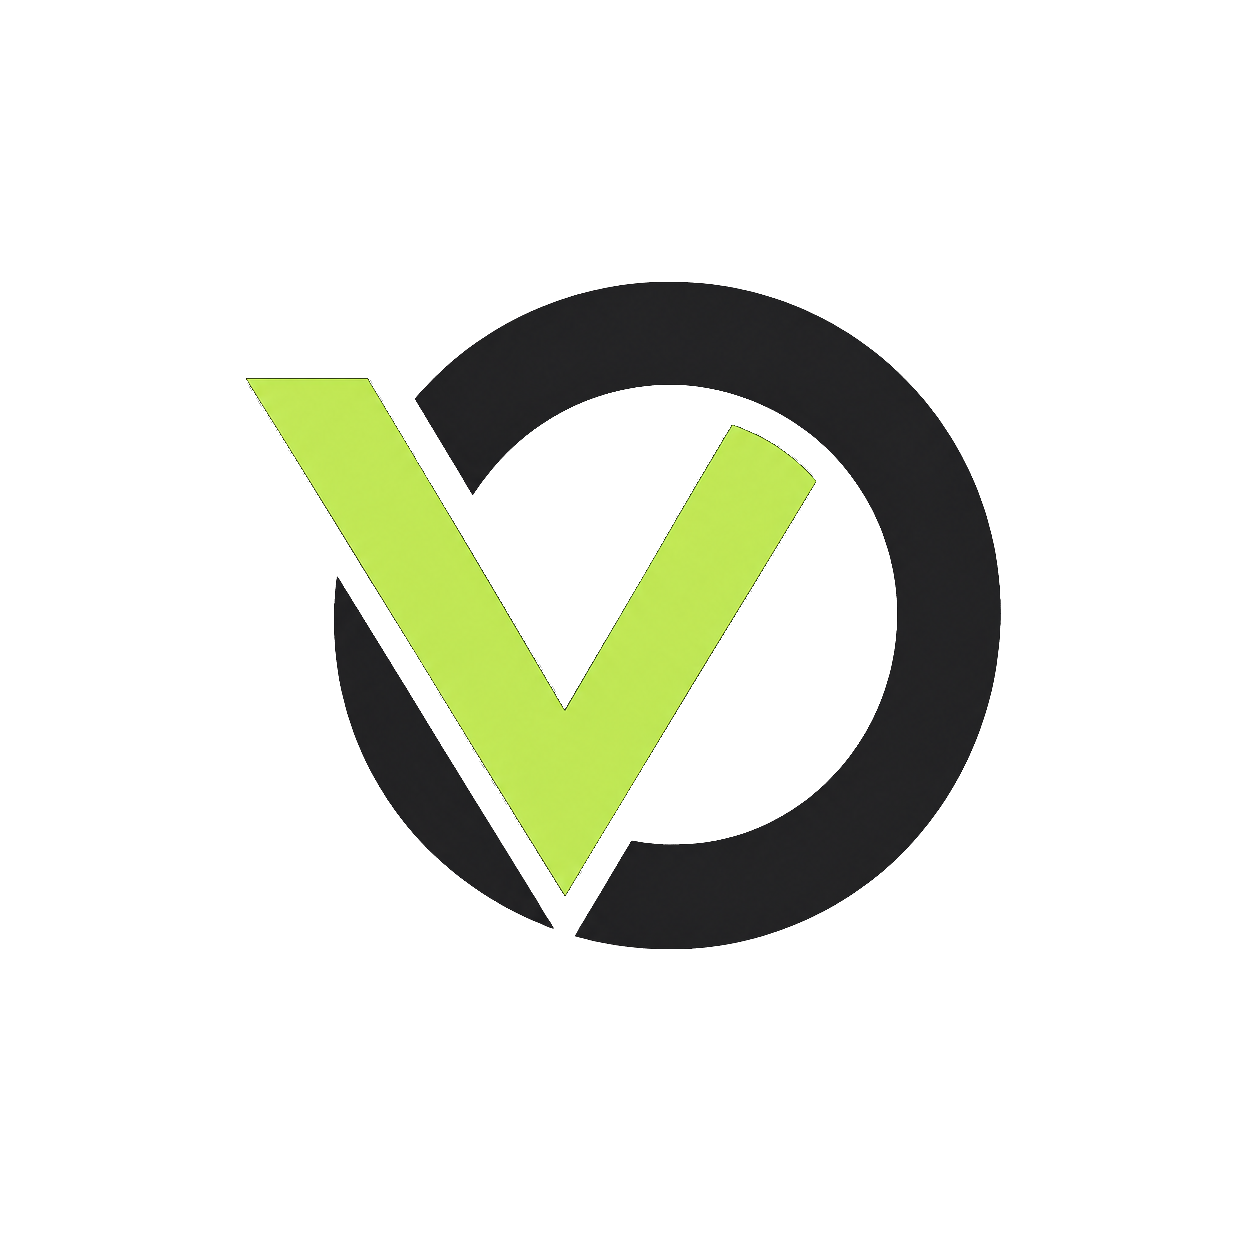
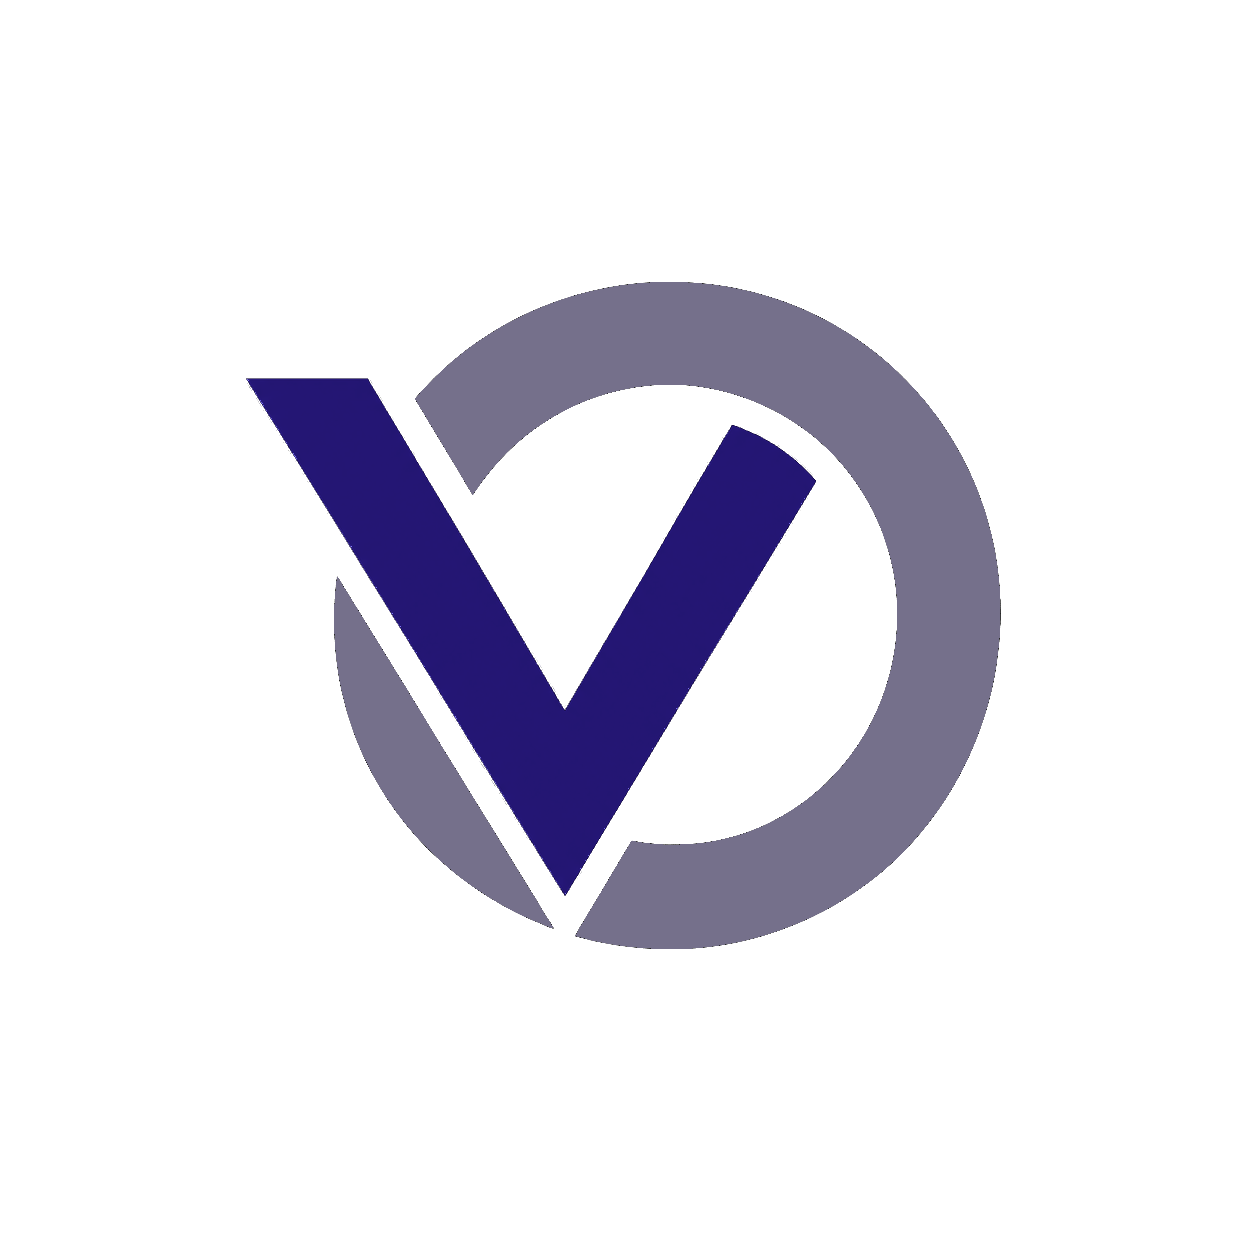
increased text size

Changed region(s): [[0.1866, 0.2177, 0.8086, 0.7775]]

diff --git a/components/Hero.tsx b/components/Hero.tsx
@@ -126,10 +126,10 @@ export default function Hero() {
       <p
         className="font-mono"
         style={{
-          fontSize: "0.9rem",
+          fontSize: "1.35rem",
           color: "var(--text-2)",
-          maxWidth: "560px",
-          lineHeight: 1.85,
+          maxWidth: "760px",
+          lineHeight: 1.75,
           marginBottom: "3rem",
         }}
       >

diff --git a/components/Projects.tsx b/components/Projects.tsx
@@ -140,7 +140,7 @@ export default function Projects() {
 
               <p
                 className="font-mono"
-                style={{ fontSize: "0.85rem", color: "var(--text-2)", lineHeight: 1.8, marginBottom: "1.5rem" }}
+                style={{ fontSize: "1.27rem", color: "var(--text-2)", lineHeight: 1.6, marginBottom: "1.5rem" }}
               >
                 {p.desc}
               </p>
@@ -150,7 +150,7 @@ export default function Projects() {
                   <li
                     key={j}
                     className="font-mono"
-                    style={{ fontSize: "0.78rem", color: "var(--text-3)", paddingLeft: "1rem", position: "relative" }}
+                    style={{ fontSize: "1.16rem", color: "var(--text-3)", paddingLeft: "1rem", position: "relative" }}
                   >
                     <span style={{ position: "absolute", left: 0, color: "var(--accent)" }}>›</span>
                     {b}
@@ -300,7 +300,7 @@ export default function Projects() {
               </h4>
               <p
                 className="font-mono"
-                style={{ fontSize: "0.78rem", color: "var(--text-3)", lineHeight: 1.7, marginBottom: "1rem" }}
+                style={{ fontSize: "1.01rem", color: "var(--text-3)", lineHeight: 1.6, marginBottom: "1rem" }}
               >
                 {p.desc}
               </p>

diff --git a/components/Contact.tsx b/components/Contact.tsx
@@ -67,7 +67,7 @@ export default function Contact() {
 
             <p
               className="font-mono"
-              style={{ fontSize: "0.87rem", color: "var(--text-2)", lineHeight: 1.85, marginBottom: "3rem" }}
+              style={{ fontSize: "1.3rem", color: "var(--text-2)", lineHeight: 1.65, marginBottom: "3rem" }}
             >
               Whether you&apos;re building a product, need technical writing, or want a
               researcher embedded in your Startup—I&apos;m interested in hearing
@@ -158,7 +158,7 @@ export default function Contact() {
                 </h3>
                 <p
                   className="font-mono"
-                  style={{ fontSize: "0.8rem", color: "var(--text-2)", lineHeight: 1.75 }}
+                  style={{ fontSize: "0.92rem", color: "var(--text-2)", lineHeight: 1.7 }}
                 >
                   I aim to respond within 24 hours. Talk soon.
                 </p>

diff --git a/components/Experience.tsx b/components/Experience.tsx
@@ -148,7 +148,7 @@ export default function Experience() {
                     <li
                       key={j}
                       className="font-mono"
-                      style={{ fontSize: "0.82rem", color: "var(--text-2)", lineHeight: 1.75, paddingLeft: "1rem", position: "relative" }}
+                      style={{ fontSize: "1.23rem", color: "var(--text-2)", lineHeight: 1.6, paddingLeft: "1rem", position: "relative" }}
                     >
                       <span style={{ position: "absolute", left: 0, color: "var(--border-2)" }}>—</span>
                       {b}
@@ -198,7 +198,7 @@ export default function Experience() {
                 </div>
                 <p
                   className="font-mono"
-                  style={{ fontSize: "0.82rem", color: "var(--text-2)", lineHeight: 1.75 }}
+                  style={{ fontSize: "1.23rem", color: "var(--text-2)", lineHeight: 1.6 }}
                 >
                   {item.desc}
                 </p>

diff --git a/components/About.tsx b/components/About.tsx
@@ -61,7 +61,7 @@ export default function About() {
 
           <div
             className="font-mono"
-            style={{ fontSize: "0.87rem", color: "var(--text-2)", lineHeight: 1.9, display: "flex", flexDirection: "column", gap: "1rem" }}
+            style={{ fontSize: "1.3rem", color: "var(--text-2)", lineHeight: 1.7, display: "flex", flexDirection: "column", gap: "1rem" }}
           >
             <p>
               I&apos;m Victor, a frontend engineer focused on creating responsive